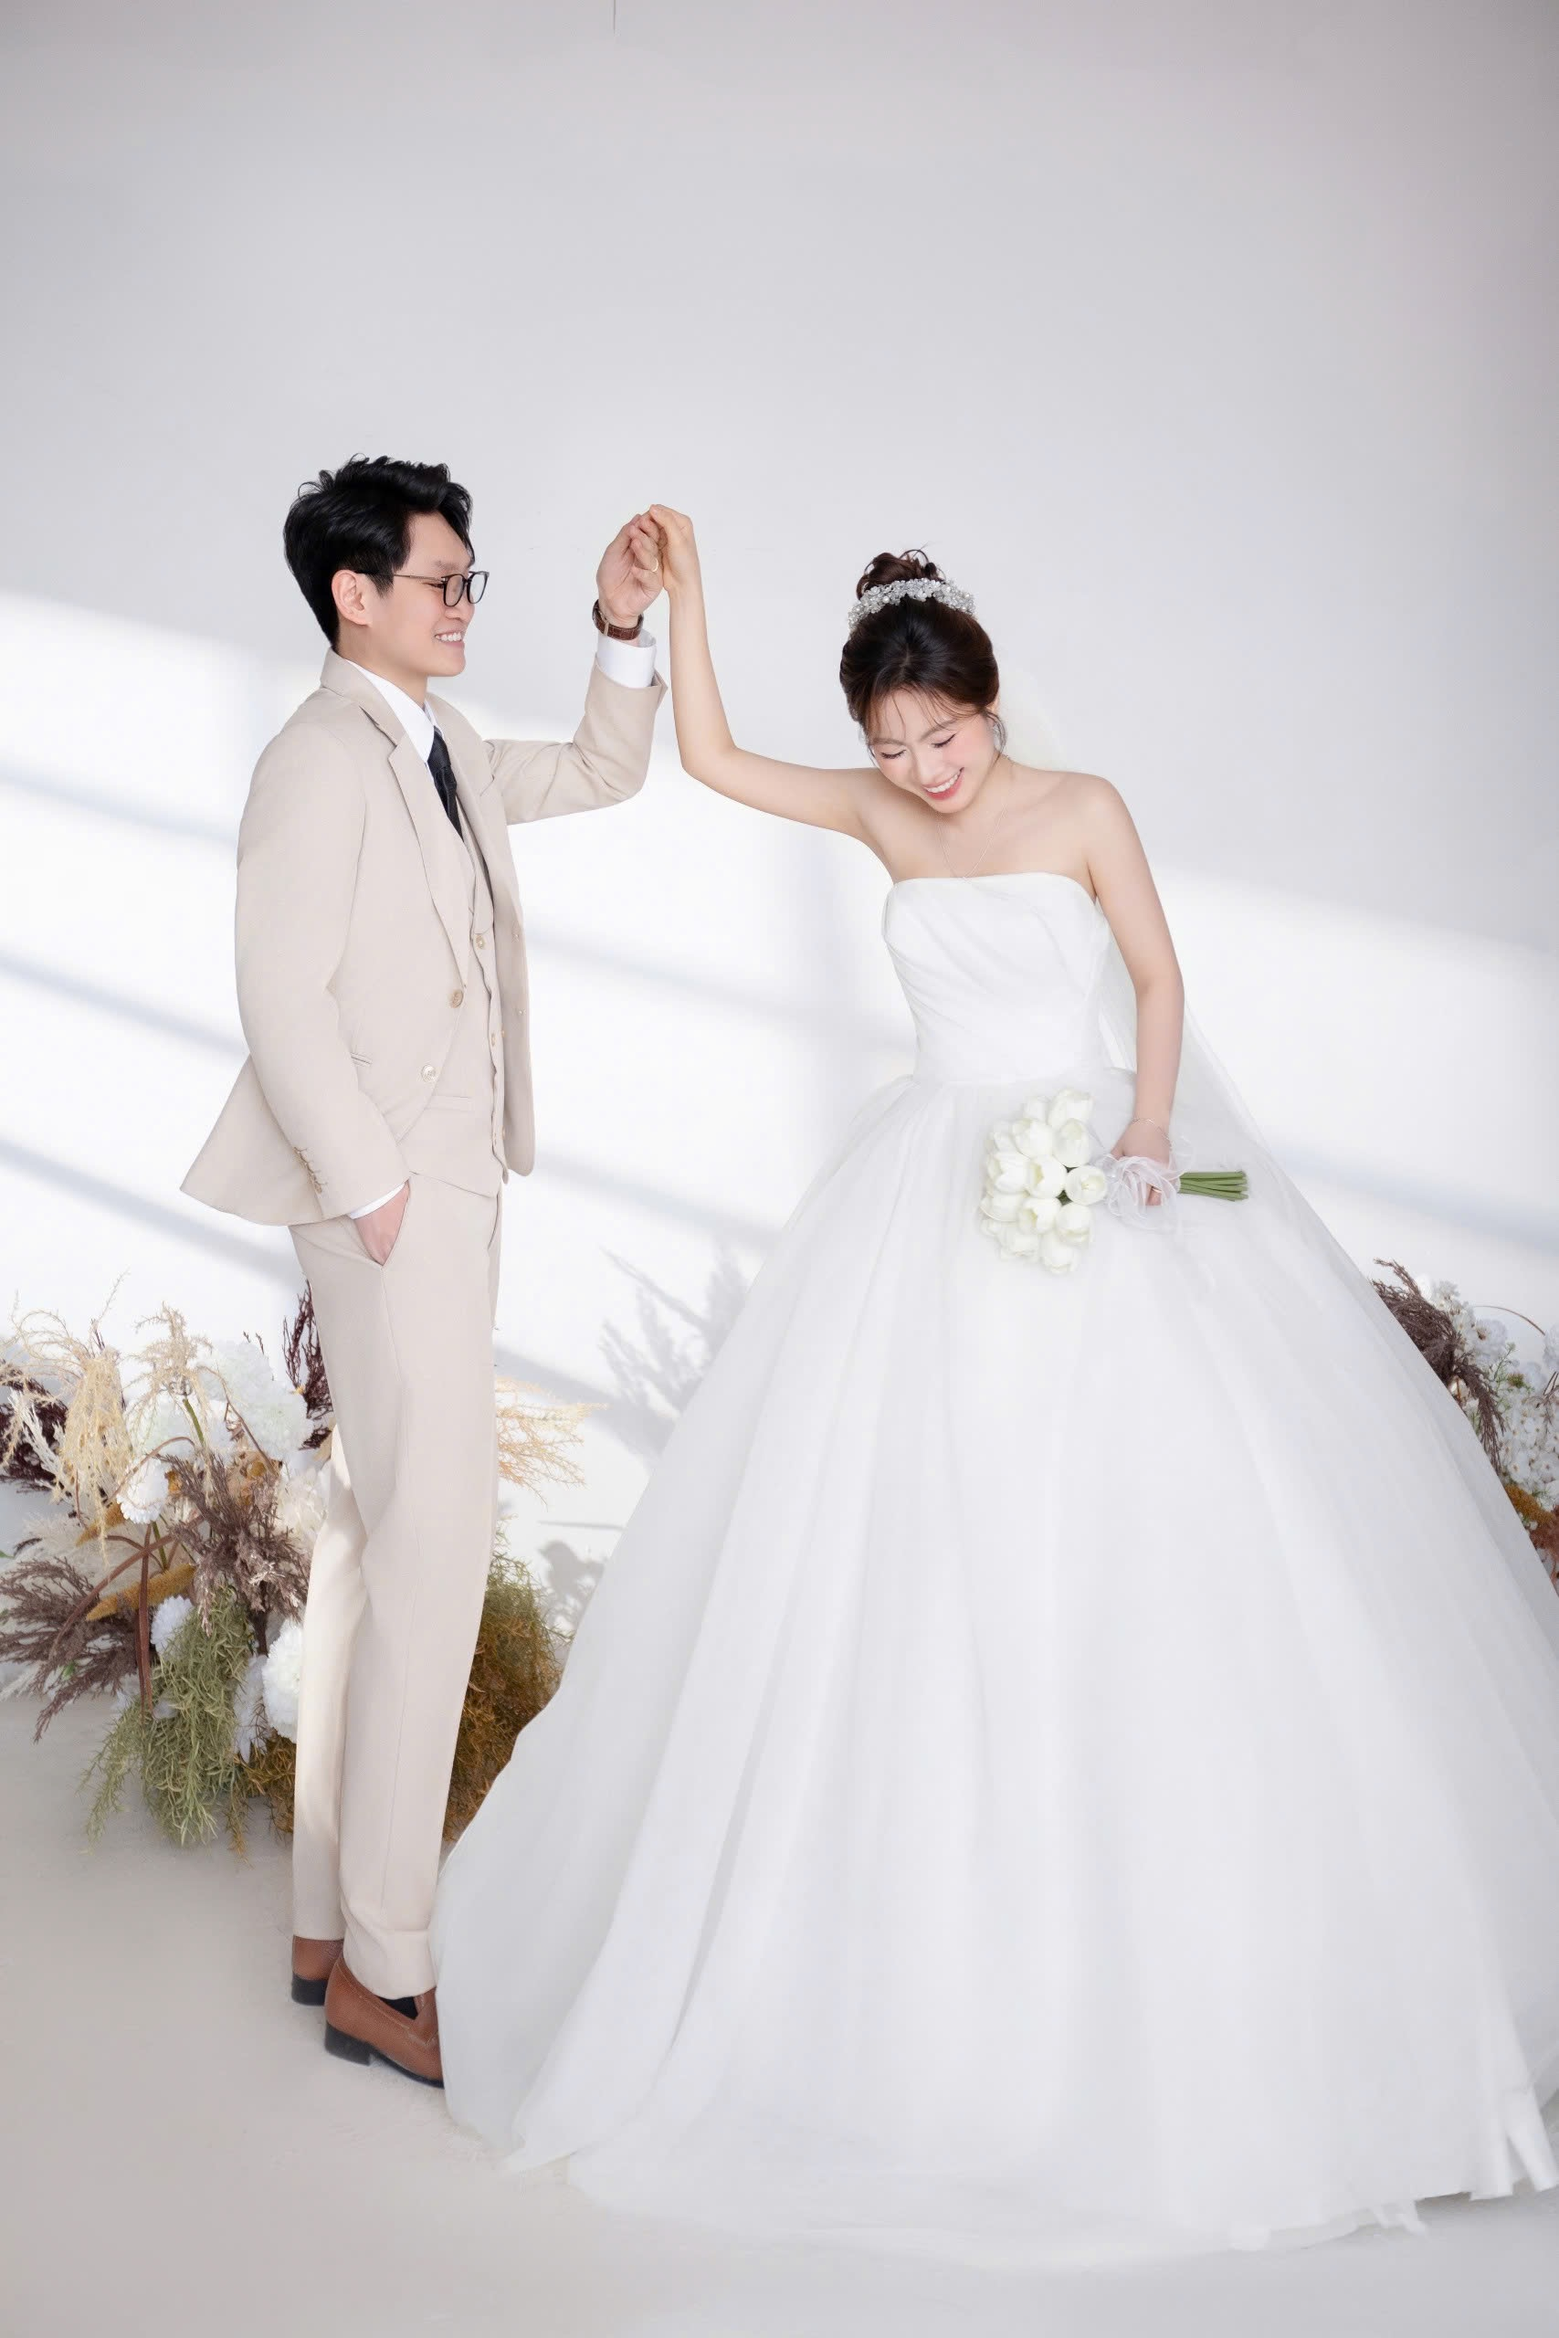
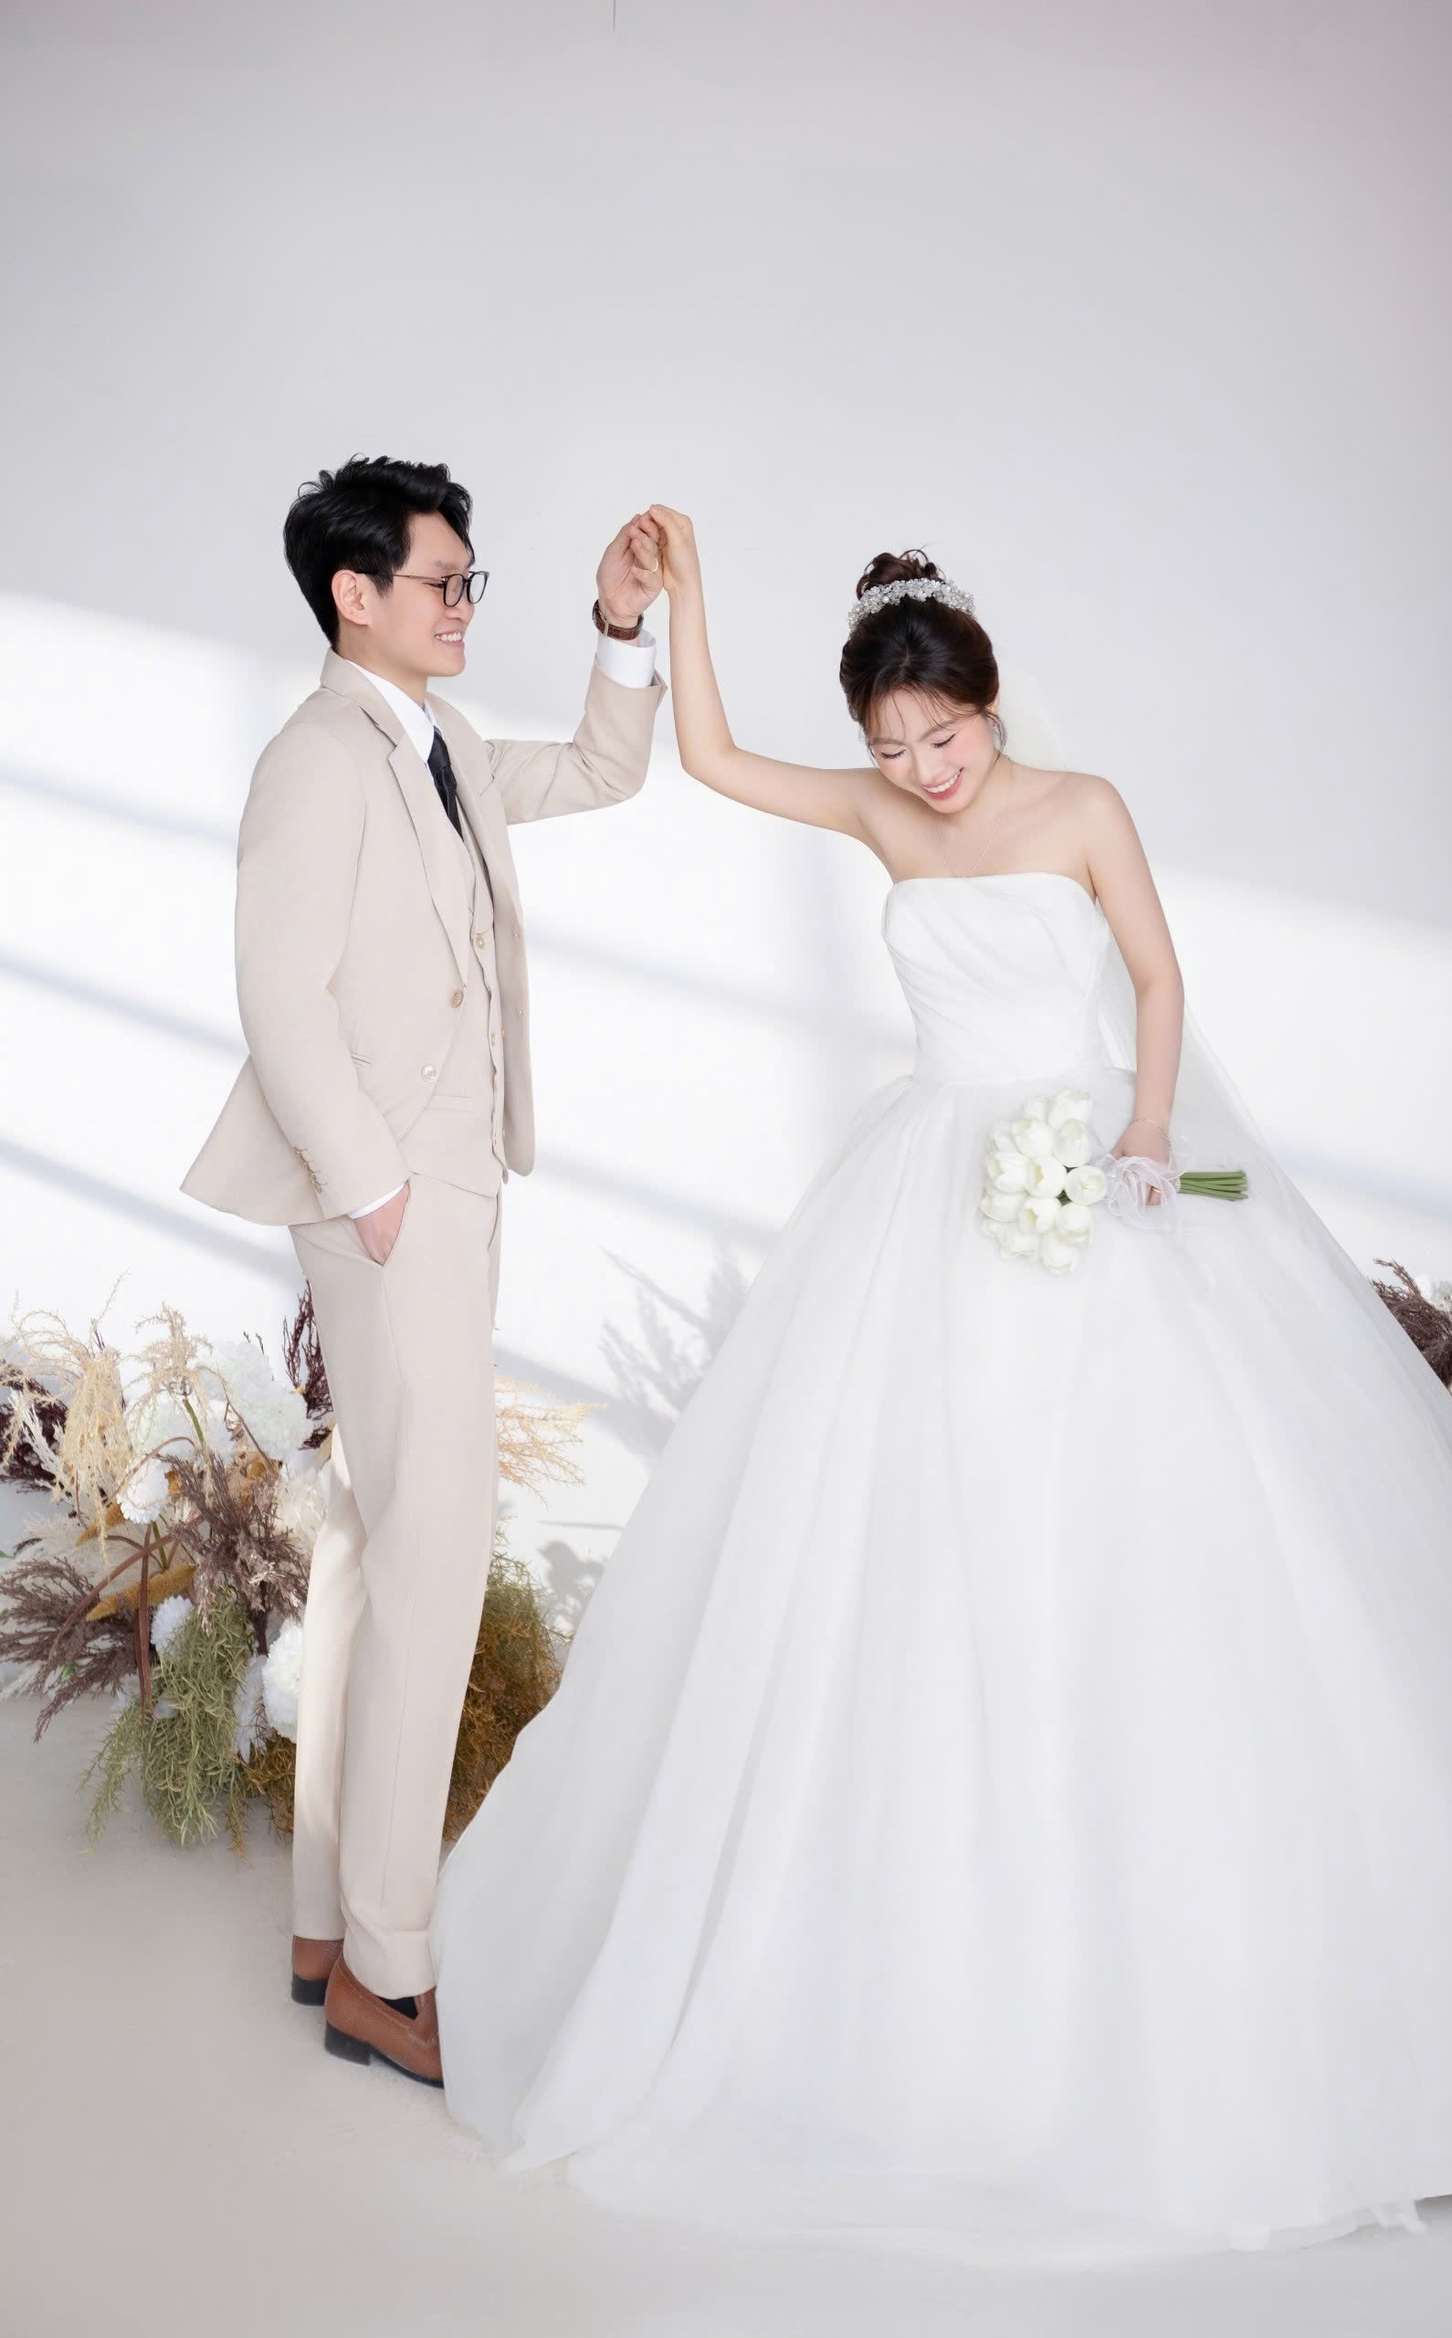
Update image

diff --git a/index.html b/index.html
@@ -450,7 +450,7 @@
     <!-- END PRELOAD --> <!-- HEADER -->
     <header>
         <section id="banner" class="banner">
-            <img src="images/UBhImrw3HRmxLyrB5bW83QOqccCulS2KIVjKEHbk.jpg" alt="" class="banner_top kenburns-top" data-aos="fade" data-aos-duration="3000" style="object-position:center center">
+            <img src="images/6EToVCvNI3QbggTyCjwz4mCmSY8lmwkexRTbywEJ.jpg" alt="" class="banner_top kenburns-top" data-aos="fade" data-aos-duration="3000" style="object-position:center center">
             <div class="container">
                 <div class="banner-container">
                     <h2 class="banner-title" data-aos="fade-down" data-aos-duration="3000">
@@ -960,7 +960,7 @@
     <!-- THANK YOU -->
     <section id="thankyou" class="section-thankyou bg_overlay uk-position-z-index">
         <div class="uk-overlay uk-overlay-primary uk-position-cover"> </div>
-        <img src="images/pdpdP6hqHl0OyKBaJxcTH1NF9bDKMGIjIRfJANPH.jpg" alt="" class="thankyou-bg thankyou_img" style="object-position:">
+        <img src="images/6EToVCvNI3QbggTyCjwz4mCmSY8lmwkexRTbywEJ.jpg" alt="" class="thankyou-bg thankyou_img" style="object-position:">
         <div class="thankyou-body container uk-position-relative uk-position-z-index">
             <h2 class="script-font uk-heading-medium uk-text-center text-white" data-aos="fade-up" data-aos-duration="2500">Thank you!</h2>
             <p data-aos="fade-down" data-aos-duration="3000">Sự hiện diện của mọi người là niềm vui và vinh hạnh cho gia đình
